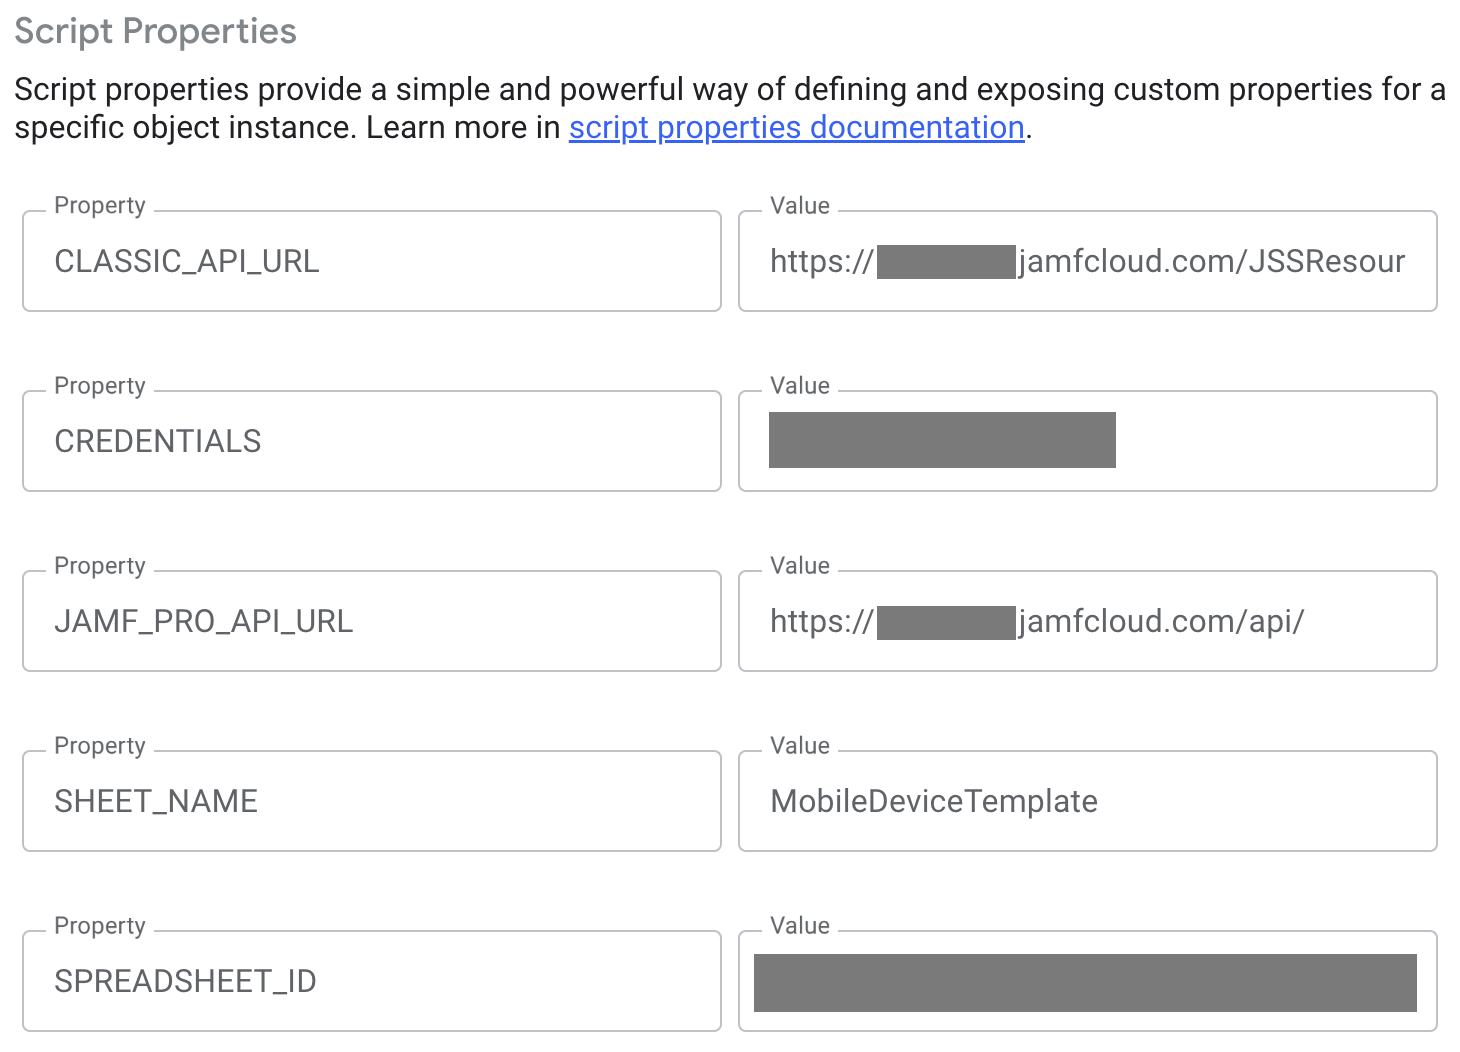
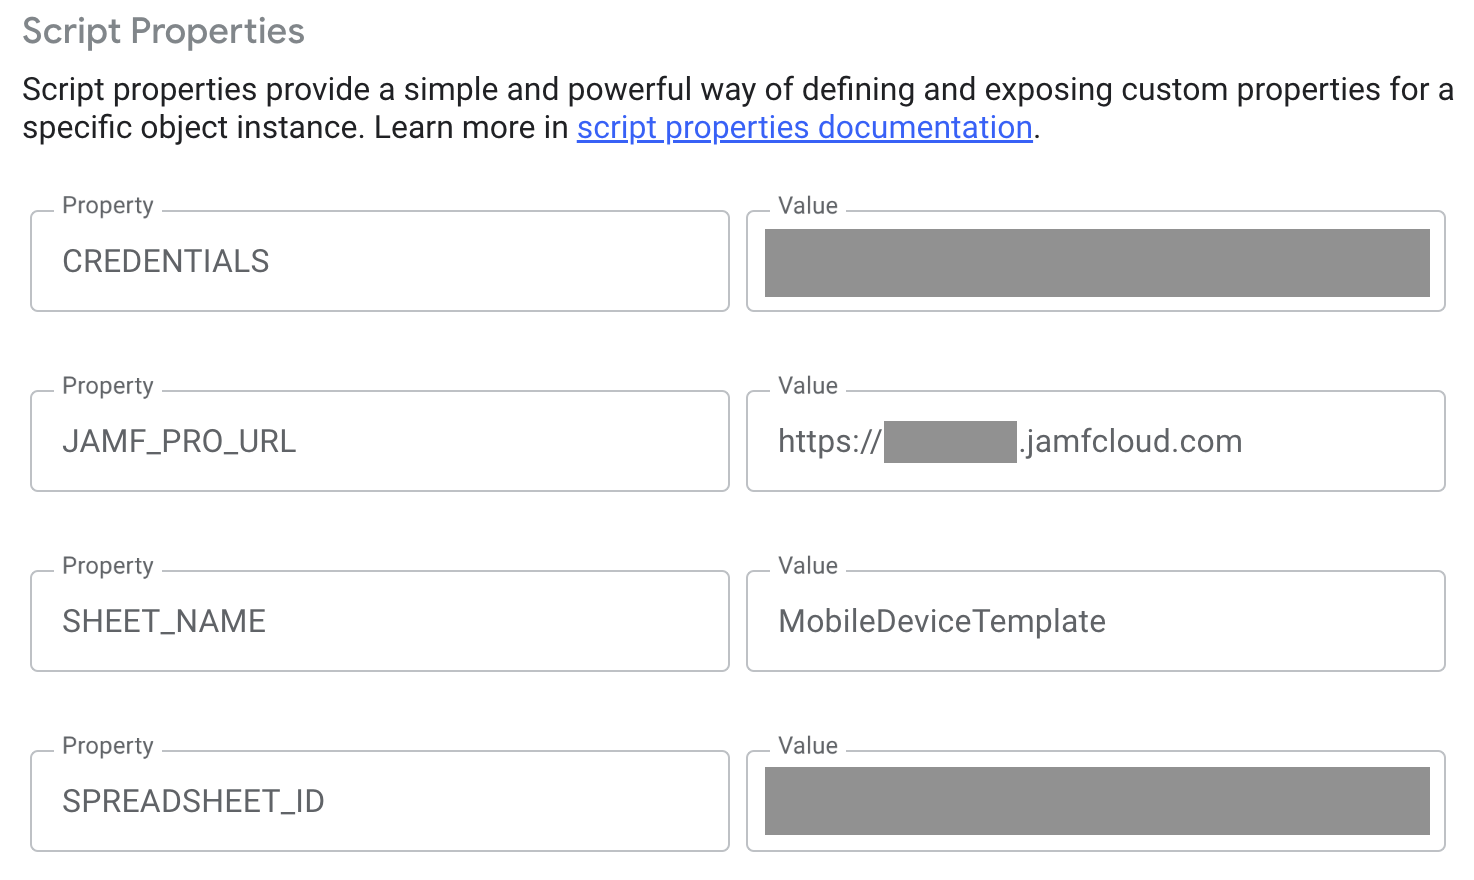
docs: update README.md

diff --git a/README_JA.md b/README_JA.md
@@ -18,9 +18,10 @@
   - [Clearing Existing Attributes](#clearing-existing-attributes)
 - [First Run](#first-run)
 - [Mass Updating](#mass-updating)
+- [Test Environments](#test-environments)
 
 ## [Introduction](#introduction)
-この一括更新ツールは、Webアプリケーション フレームワークである Google Apps Script(GAS) の下で JavaScript で書かれた Web アプリケーションです。これにより、Jamf 管理者は、Jamf 内のデバイス (iOS、iPadOS、tvOS 対象のみ) およびユーザーの属性 (ユーザー名、アセットタグ、または拡張属性など) を一括更新できます。 
+この一括更新ツールは、Webアプリケーション フレームワークである Google Apps Script (GAS) の下で JavaScript で書かれた Web アプリケーションです。これにより、Jamf 管理者は、Jamf 内のデバイス (現在は iOS、iPadOS、tvOS 対象のみ) およびユーザーの属性 (ユーザー名、アセットタグ、または拡張属性など) を一括更新できます。 
 
 ツールはブラウザー上で動きますので、OSと関係なく、Windows、macOS、iOS デバイスでも使うことは可能となります。
 
@@ -36,6 +37,9 @@ Googleアカウントにログインします。
 
 ### [Jamf Pro](#jamf-pro)
 お使いの Jamf Proにおいて 初めて当作業を実施する際は以下を実施してください。
+
+
+Jamf Pro の「API ロールおよびクライアント」機能を使用したい場合は、ブランチをfeature/client-credentials-auth に変えてください。
 
 #### [API Account](#api-account)
 Jamf Pro で API用ユーザアカウントを以下の様に作成します。
@@ -58,7 +62,7 @@ Jamf Pro で API用ユーザアカウントを以下の様に作成します。
      - ユーザ (読み取り・アップデート）
    - **Jamf Proサーバアクション**
      - モバイルデバイスへのユーザ割当
-     - モバイルデバイス名称設定コマンドを送信
+     - モバイルデバイス名称設定コマンドを送信
 7. 「保存」をクリック。
 
 ### [Google Spreadsheet](#google-spreadsheet)
@@ -80,15 +84,14 @@ Jamf Pro で API用ユーザアカウントを以下の様に作成します。
 #### [Initial Settings](#initial-settings)
 コピーしたスプレッドシートを開いて、以下の手順にそって初期設定を行ってください。
 
-1. 拡張属性 > Apps Script にクリック。
+1. 拡張機能 > Apps Script にクリック。
 2. 画面左中の「歯車マーク」をクリック。（プロジェクトの設定）
 3. 下にある「スクリプト プロパティを追加」にクリック。
 4. 以下の内容を設定して「保存」をクリック。
 
 | プロパティ | 値 |
 | :---   | :---   |
-| CLASSIC_API_URL | https://インスタンス名.jamfcloud.com/JSSResource |
-| JAMF_PRO_API_URL | https://インスタンス名.jamfcloud.com/api/ |
+| JAMF_PRO_URL | https://インスタンス名.jamfcloud.com |
 | CREDENTIALS | 作成したJamfAPIユーザー名:Jamfパスワード<br />例: ユーザー名がaaa、パスワードがbbbであれば<br />「aaa:bbb」となる。 |
 | SHEET_NAME | MobileDeviceTemplate |
 | SPREADSHEET_ID | コピーしたスプレッドシートID (取得方は以下の説明をご覧） |
@@ -104,7 +107,7 @@ Jamf Pro で API用ユーザアカウントを以下の様に作成します。
 
 一括更新を実行する時に、スプレッドシートのヘッダー行に対して検証チェックを実行します。一括更新を行う前に、ヘッダー行の変更 (列の削除や列の再配置など) しないようにしてください。 ヘッダー行に変更があれば、一括購入は正常に動かない可能性は高いです。
 
-スプレッドシートの下にあるシート名「MobileDeviceTemplate」をそのままにしてください。  
+スプレッドシートの下にあるシート名「MobileDeviceTemplate」はそのままにしてください。  
 <img width="525" alt="スプレッドシート名" src="./assets/JA/06.png">
 
 ### [Updating Attributes](#updating-attributes)
@@ -136,8 +139,8 @@ Jamf Pro で API用ユーザアカウントを以下の様に作成します。
 
 【注意事項】  
 部署、建物 については、Jamf Pro に登録されている  
- 「部署」「建物」と同じ値 (文字列) を入力する必要がある。  
- Jamf Pro に登録されていない「部署」「建物」を入力した場合は更新されない。 
+ 「部署」「建物」と同じ値 (文字列) を入力する必要があります。  
+ Jamf Pro に登録されていない「部署」「建物」を入力した場合は更新されません。 
 
 **Jamf Pro にてインベントリ画面の「購入」タブで更新可能な項目**
 - 購入またはリース　→　リースの場合「TRUE」or そのままにする →「FALSE」
@@ -196,7 +199,7 @@ Jamf Pro で API用ユーザアカウントを以下の様に作成します。
 ## [First Run](#first-run)
 1. コピーしたスプレッドシートを開く。
 2. 更新したいデータを入力する。
-3. メニューでヘルプの右にある Settings > Run を押下。  
+3. メニューでヘルプの右にある「設定」> 「実行」 を選択。  
 <img width="250" alt="最初の実行" src="./assets/JA/08.png">
 
 4. 最初実行時に承認が必要。（写真参照）  
@@ -210,13 +213,17 @@ Jamf Pro で API用ユーザアカウントを以下の様に作成します。
 6. 「詳細」クリック後に「[GAS] MobileDeviceTemplate (安全ではないページ) に移動」をクリック。  
 <img width="585" alt="「移動」ポップアップ" src="./assets/JA/11.png">
 
-7. 最後に「許可」を押下。  
+7. 最後に「許可」を選択。  
 <img width="425" alt="「許可」ポップアップ" src="./assets/JA/12.png">
+
+*初回実行時には、一括更新は実行されません。*  
+*一括更新を行うには、「設定」>「実行」をもう一度選択する必要があります。*
 
 ## [Mass Updating](#mass-updating)
 1. コピーしたスプレッドシートを開く。
 2. 更新したいデータを入力する。
-3. メニューでヘルプの右にある 「設定」 > 「実行」 を押下。  
+3. メニューでヘルプの右にある「設定」>「実行」を押下。  
+
 <img width="250" alt="プログラム実行" src="./assets/JA/08.png">
 
 更新中↓  
@@ -226,9 +233,28 @@ Jamf Pro で API用ユーザアカウントを以下の様に作成します。
 更新完了↓  
 <img width="1415" alt="更新完了" src="./assets/JA/14.png">
 
-Settings > Run ボタンを押すと、ときどき以下のエラーとなります。  
+「設定」>「実行」ボタンを押すと、ときどき以下のエラーとなります。  
 <img width="530" alt="エラー" src="./assets/JA/15.png">  
-この場合、以下をやってみてください。  
+この場合、以下を実行してみてください。  
 「表示しない」をクリック。  
 5-10秒を待つ。  
-Settings > Run をもう一度押下。  
+「設定」>「実行」をもう一度選択。  
+
+## [Test Environments](#test-environment)
+動作確認を行なった環境は以下です。
+
+macOS 14.4.1  
+・Google Chrome v.123.0.6312.59、日本語・英語  
+・Firefox v.124.0.1 (64-bit)、日本語・英語  
+
+iPadOS 16.7.7  
+・Safari 16.7.7、英語 
+
+Windows 11 (arm)  
+・Google Chrome v.123.0.6312.59、日本語  
+・Microsoft Edge v.122.0.2365.92、日本語
+
+Windows 10 (x86)  
+・Google Chrome v.123.0.6312.59、日本語・英語  
+・Microsoft Edge v.122.0.2365.92、日本語・英語  
+・Firefox v.124.0.1 (64-bit)、日本語・英語 

diff --git a/README.md b/README.md
@@ -20,10 +20,11 @@ Based on information within the spreadsheet, the program makes API calls to upda
   - [Clearing Existing Attributes](#clearing-existing-attributes)
 - [First Run](#first-run)
 - [Mass Updating](#mass-updating)
+- [Test Environments](#test-environments)
 
 ## [Introduction](#introduction)
 This mass update tool is a web application written in JavaScript under the Google Apps Script (GAS) web application framework.  
-This enables Jamf administrators to perform mass updates for devices within Jamf (limited to iOS, iPadOS, and tvOS) and user attributes (such as username, asset tag, or custom attributes, etc).
+This enables Jamf administrators to perform mass updates for devices within Jamf (currently limited to iOS, iPadOS, and tvOS) and user attributes (such as username, asset tag, or custom attributes, etc).
 
 Since the tool operates within a web browser, it can be used on devices running various operating systems, including Windows, macOS, and iOS.
 
@@ -41,6 +42,8 @@ Log in to your Google account.
 ### [Jamf Pro](#jamf-pro)
 When setting things up for the first time, please follow the steps below in your Jamf Pro environment.
 
+If you prefer to use the "API roles and clients" functionality in Jamf Pro, please navigate to the feature/client-credentials-auth branch.
+
 #### [API Account](#api-account)
 In Jamf Pro, create an API user account as follows.
 
@@ -49,7 +52,7 @@ In Jamf Pro, create an API user account as follows.
 3. Click on "New" in the top right corner.
 4. Check "Create Standard Account" and click "Next."
 5. In the "Account" tab, please configure the following:
-   - Username (e.g., api-user)
+   - Username (e.g. api-user)
    - Access Level: Full Access
    - Permission Set: Custom
    - Password
@@ -92,8 +95,7 @@ Please open the copied spreadsheet and follow these initial setup steps:
 
 | Property | Value |
 | :---   | :---   |
-| CLASSIC_API_URL | https://instance-name.jamfcloud.com/JSSResource |
-| JAMF_PRO_API_URL | https://instance-name.jamfcloud.com/api/ |
+| JAMF_PRO_URL | https://instance-name.jamfcloud.com |
 | CREDENTIALS | CreatedJamfAPIUsername:JamfPassword<br />Example: If the username is "aaa" and the password is "bbb," it should be "aaa:bbb." |
 | SHEET_NAME | MobileDeviceTemplate |
 | SPREADSHEET_ID | The ID of the copied spreadsheet (see the instructions below on how to obtain it) |
@@ -119,8 +121,7 @@ This section explains how to use and input data under each header in the spreads
 **Attributes that can be updated based on the "General" tab of the "Inventory" in Jamf Pro.**
 - Mobile Device Name (This will also update the actual device name.)  
 - Enforce Name: Enforce Mobile Device Name
-  - "Enforce the name → TRUE or do not enforce → FALSE
-  - If name enforcing was configured during ADE, even if you set Enforce Name to TRUE, it will revert back to the name that was configured during ADE.
+  - Enforce the name → TRUE or do not enforce → FALSE
 - Asset Tag
 - Site
   - You can use either the Site ID or the Site name.
@@ -195,7 +196,7 @@ When clearing user information from a device, the spreadsheet will look like thi
 ## [First Run](#first-run)
 1. Open the copied spreadsheet.
 2. Enter the data you want to update.
-3. Click on "Settings" in the menu to the right of Help, and then select "Run."  
+3. Click on "Settings" in the menu to the right of Help, and then select "Run".  
 <img width="250" alt="Running the tool" src="./assets/EN/08.png">  
 
 4. Authorization is required the first time you run it (see the image below).  Click the "OK" button.  
@@ -205,16 +206,20 @@ When clearing user information from a device, the spreadsheet will look like thi
    When you see "Google hasn't verified this app" click on "Advanced".  
 <img width="590" alt="Google hasn't verified this app" src="./assets/EN/10.png">
 
-6. After clicking "Advanced", click on "Go to [GAS] MobileDeviceTemplate (unsafe)".  
+6. After clicking "Advanced", click on "Go to [GAS_EN] MobileDeviceTemplate (unsafe)".  
 <img width="585" alt="Go to [GAS] MobileDeviceTemplate (unsafe)" src="./assets/EN/11.png">
 
-7. Finally, click "Allow."  
+7. Finally, click "Allow".  
 <img width="425" alt="Allow authorization" src="./assets/EN/12.png">
+
+*At the very first run, mass updates are NOT performed.*  
+*You have to click "Settings" > "Run" once again to perform the mass update.*
 
 ## [Mass Updating](#mass-updating)
 1. Open the copied spreadsheet.
 2. Enter the data you want to update.
-3. Click on "Settings" in the menu to the right of Help, and then select "Run."  
+3. Click on "Settings" in the menu to the right of Help, and then select "Run".
+
 <img width="250" alt="Running the tool" src="./assets/EN/08.png">
 
 Updating in progress ↓  
@@ -229,4 +234,23 @@ When clicking the "Settings" > "Run" button, you may occasionally encounter the 
 In this case, please try the following:
 Click "Dismiss."
 Wait for 5-10 seconds.
-Press "Settings > Run" again.
+Press "Settings" > "Run" again.
+
+## [Test Environments](#test-environments)
+The tool has been tested with the following environments.
+
+macOS 14.4.1  
+・Google Chrome v.123.0.6312.59, EN・JA  
+・Firefox v.124.0.1 (64-bit) EN・JA  
+
+iPadOS 16.7.7  
+・Safari 16.7.7, EN
+
+Windows 11 (arm)  
+・Google Chrome v.123.0.6312.59, JA
+・Microsoft Edge v.122.0.2365.92, JA
+
+Windows 10 (x86)  
+・Google Chrome v.123.0.6312.59, EN・JA  
+・Microsoft Edge v.122.0.2365.92, EN・JA  
+・Firefox v.124.0.1 (64-bit), EN・JA 
